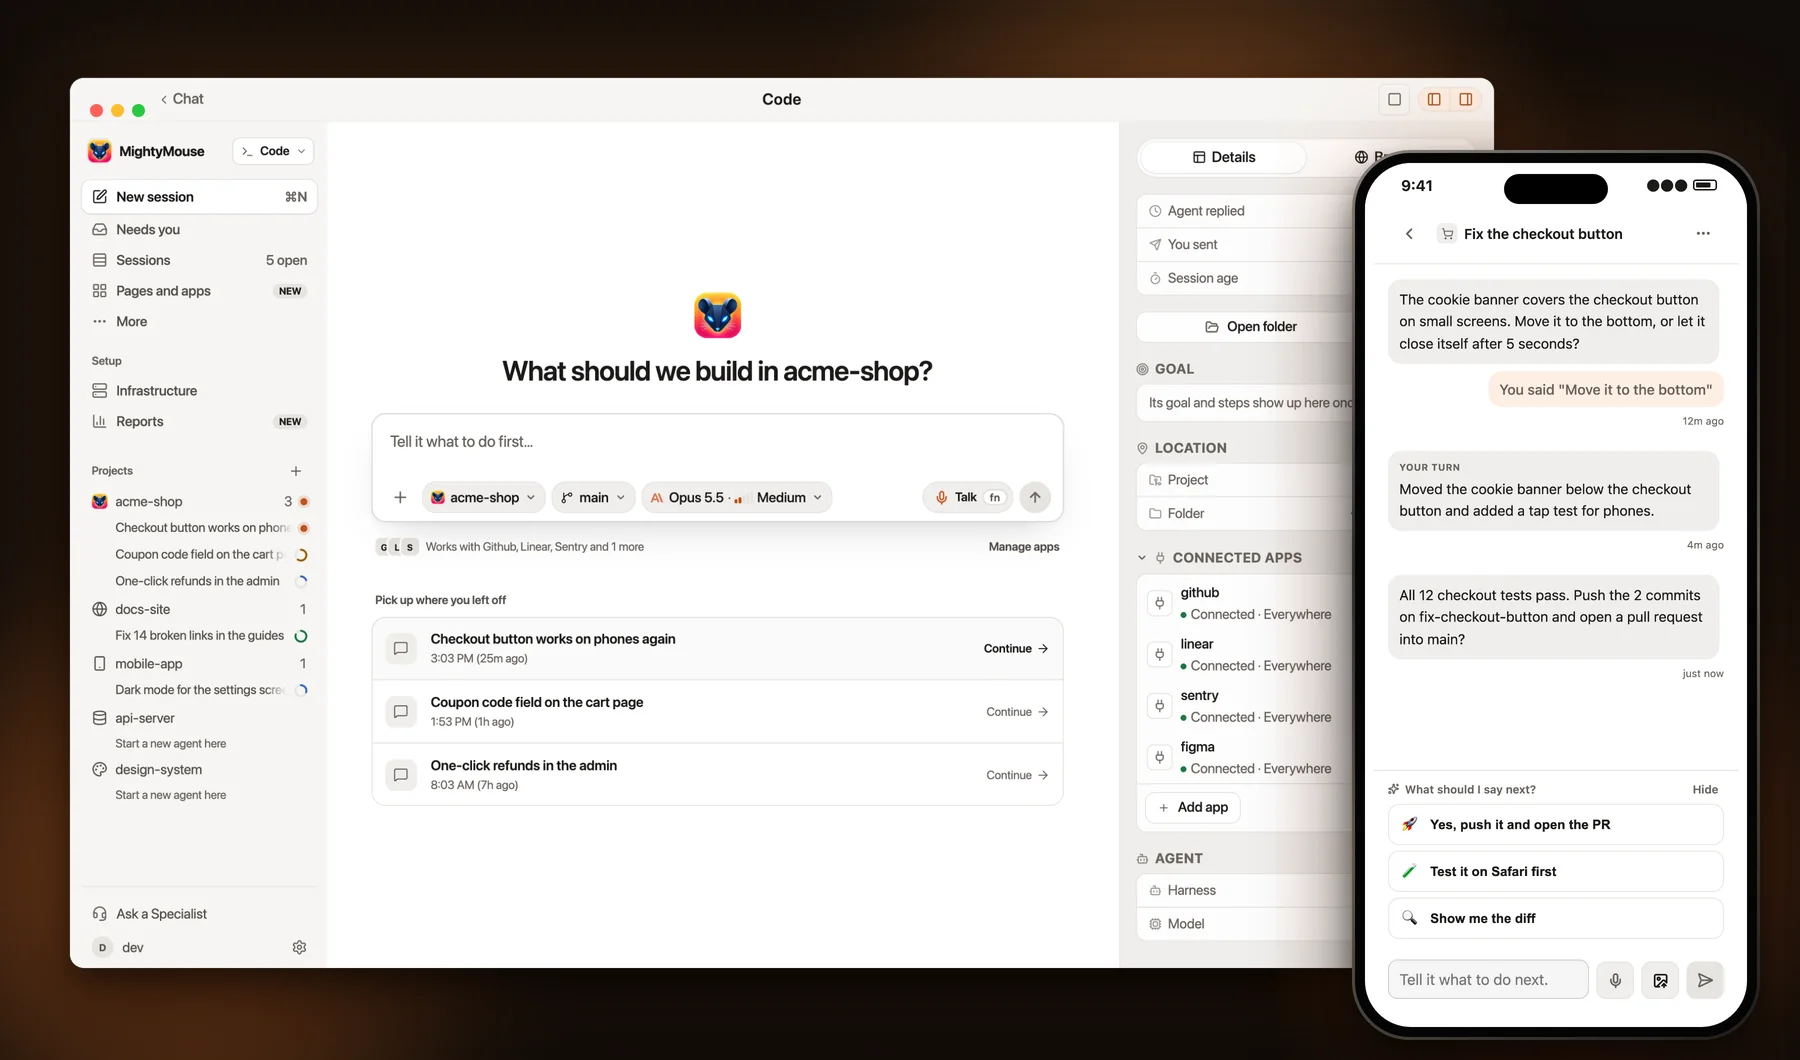
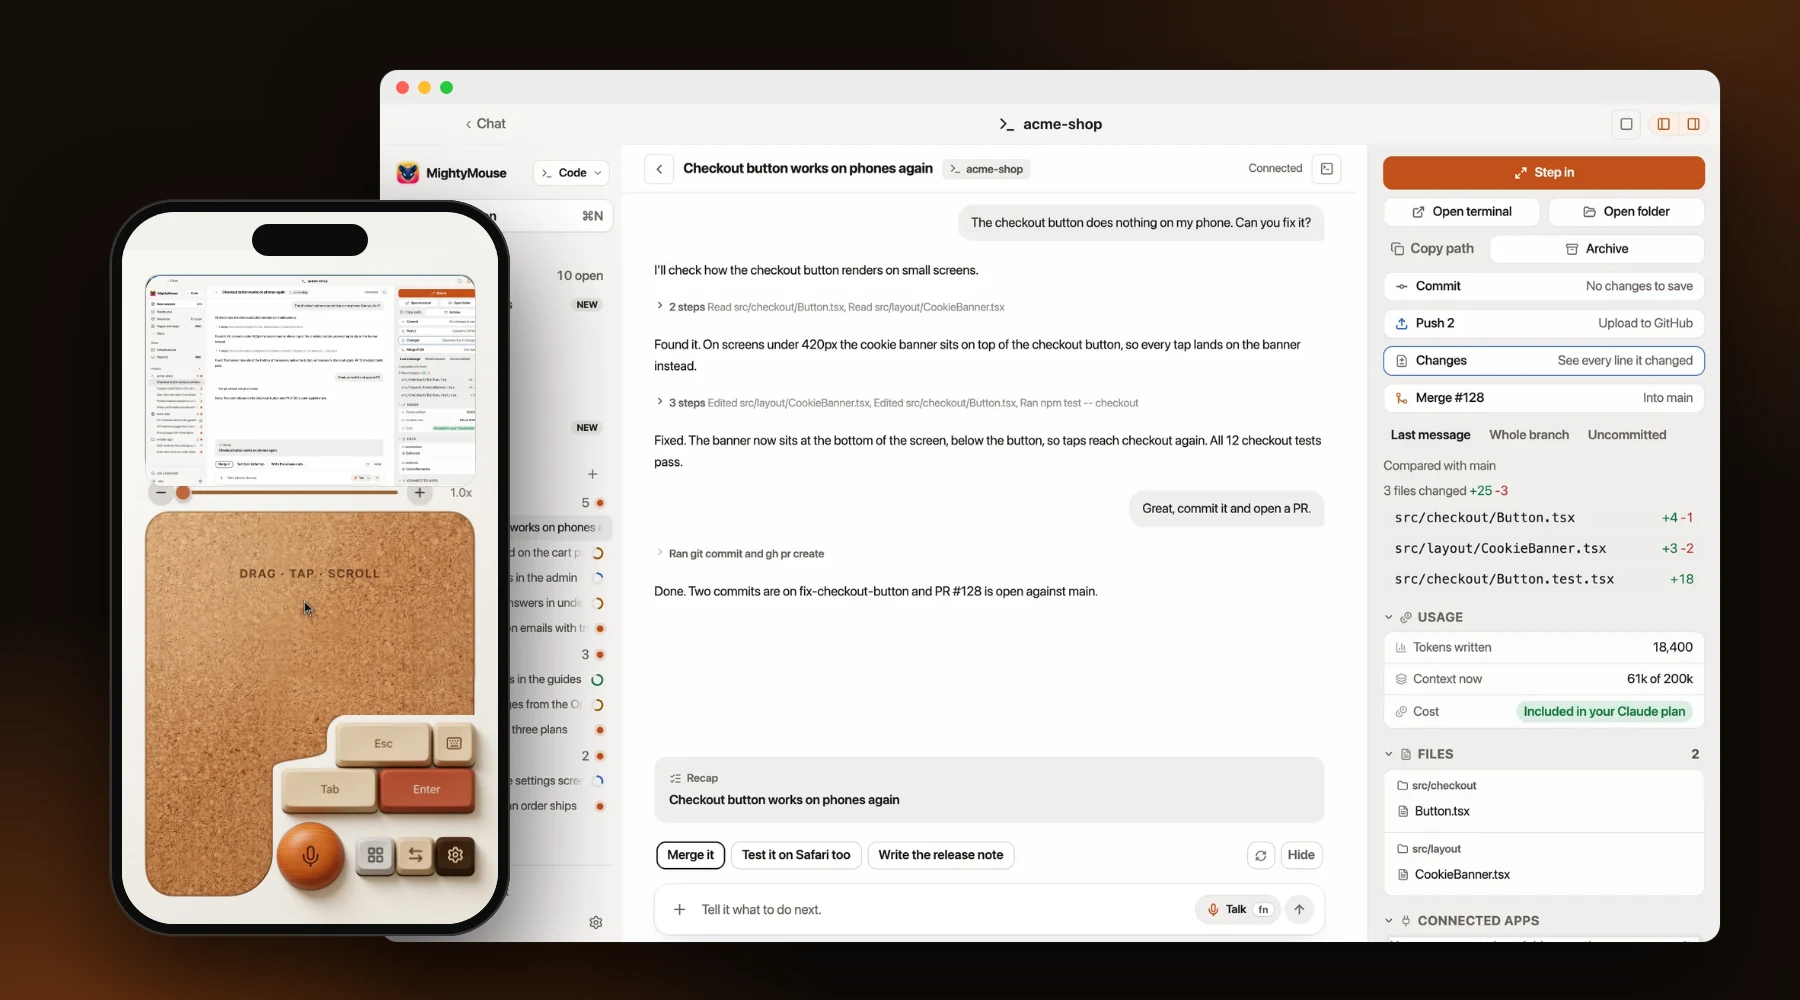
export 8833d090d

diff --git a/README.md b/README.md
@@ -43,7 +43,7 @@
 </p>
 
 <p align="center">
-  <img src=".github/assets/hero.webp" width="900" alt="MightyMouse on the computer starting a coding agent in acme-shop, with the same agent asking a question on the phone beside it">
+  <img src=".github/assets/hero.webp" width="900" alt="MightyMouse on the computer: a coding agent fixed the checkout button in acme-shop, with the changed files and a Merge button, and the phone remote in front showing the same screen above its trackpad and keys">
 </p>
 
 ## Bring any AI, keep the plan you pay for
